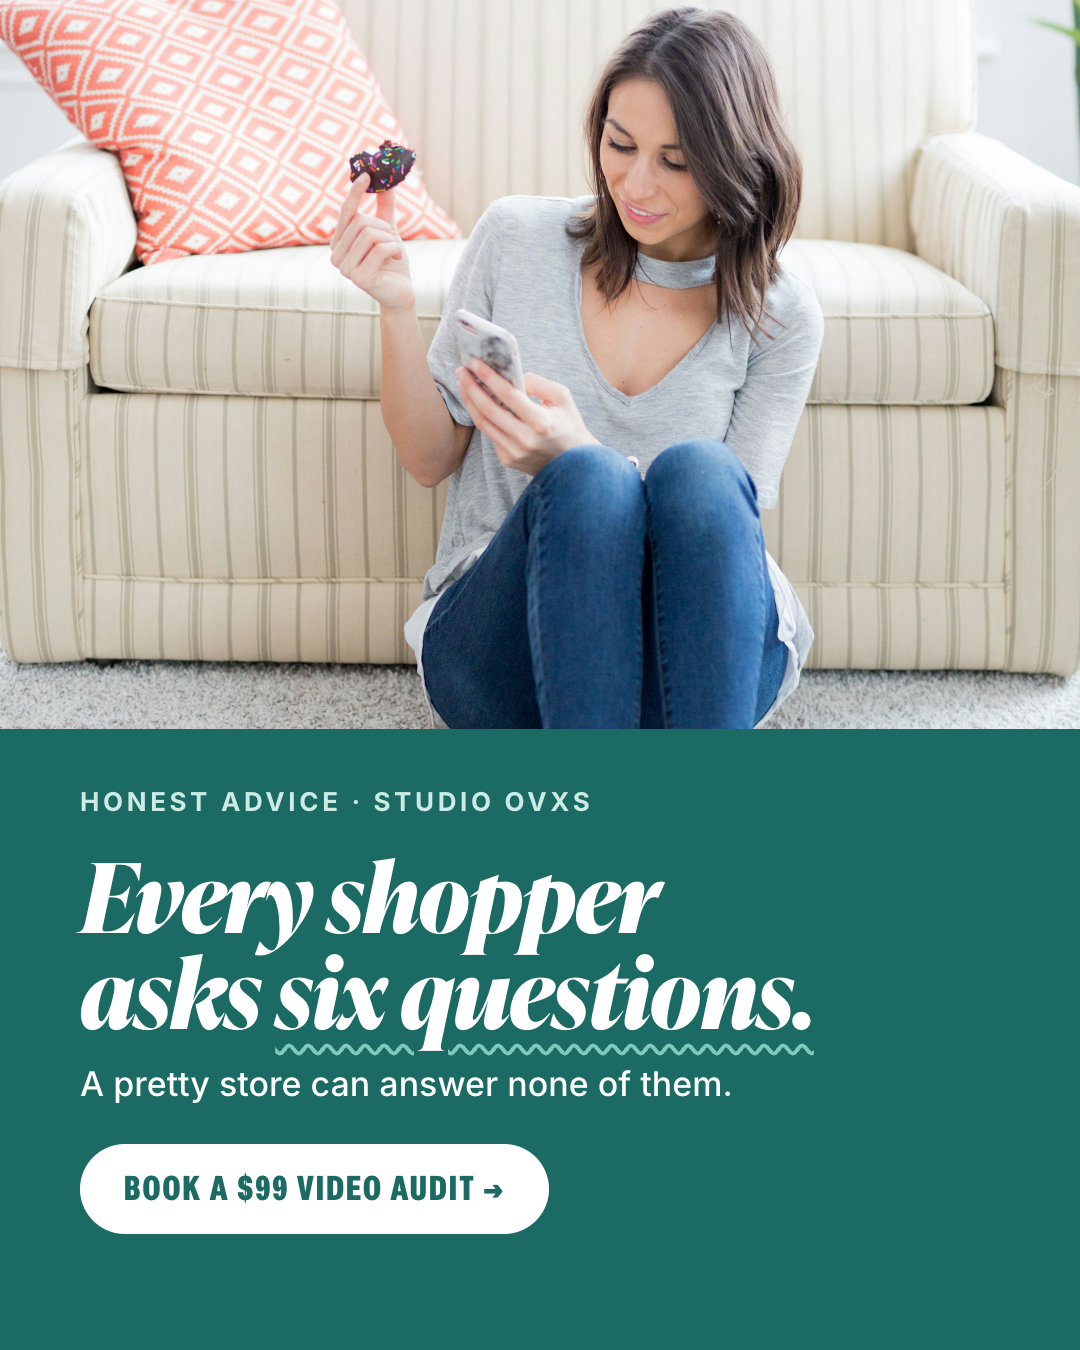
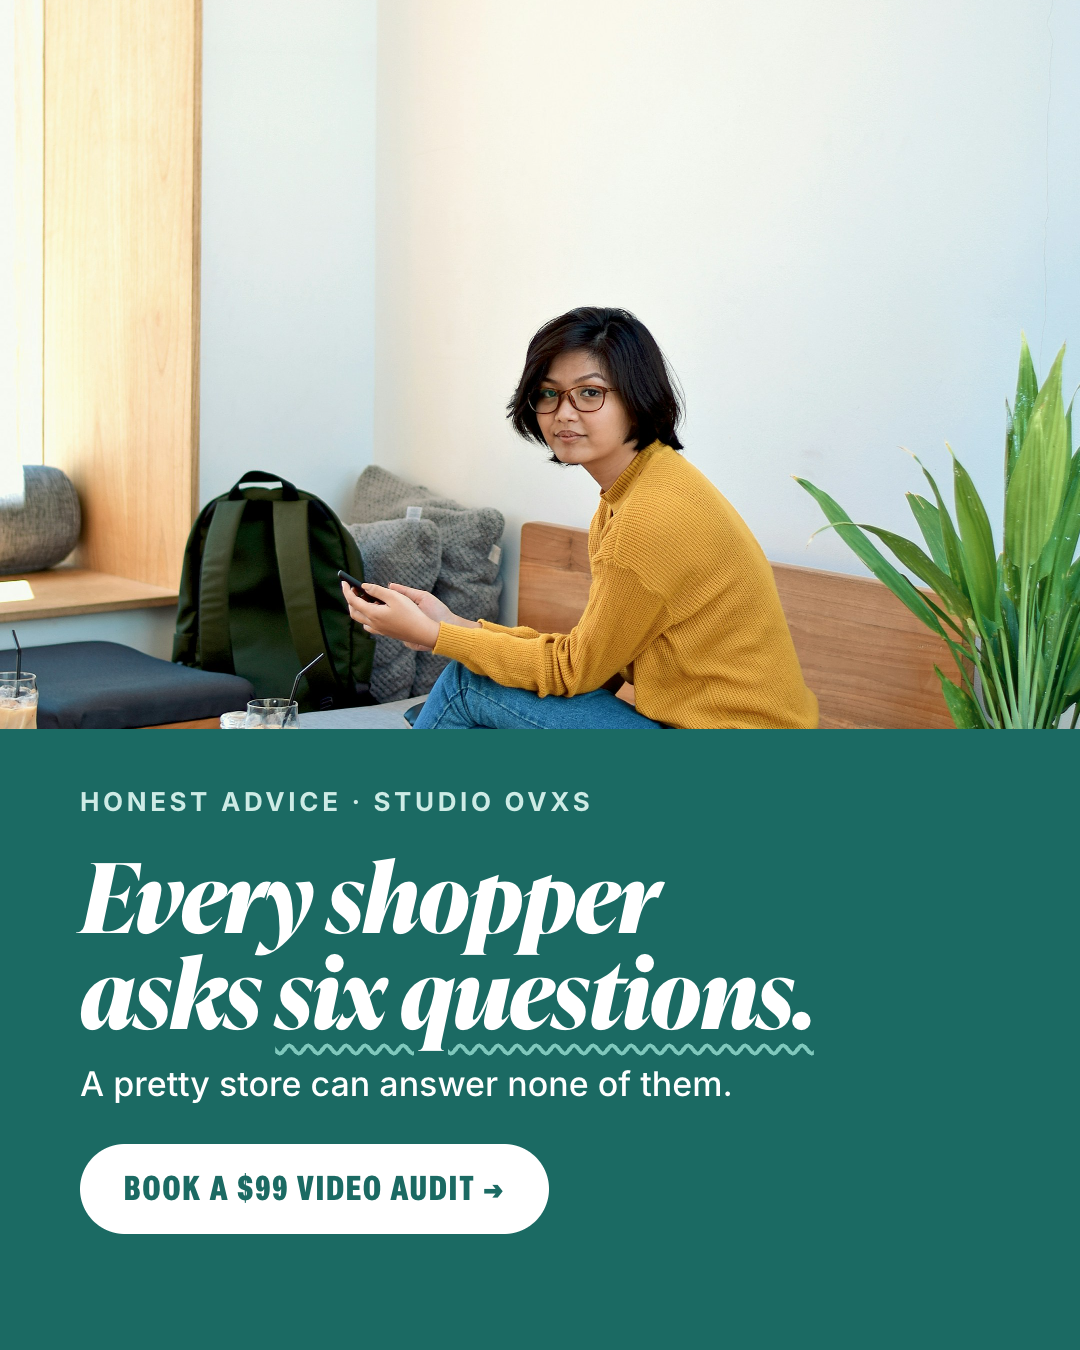
content: daily run 2026-11-17 — test request: Desk photo picks synced, post files prepped (draft-only)

diff --git a/topics/2026-11-17-look-great-still-lose-customers-test/page.html b/topics/2026-11-17-look-great-still-lose-customers-test/page.html
@@ -139,7 +139,7 @@ Link in comments.
       <div>
         <div class="h3">Graphic · 4:5</div>
         <div class="frame"><div class="board bg-primary ph-on" id="li-graphic">
-          <div class="ph" style="background-image:url(assets/li.jpg)"></div>
+          <div class="ph" style="background-image:url(assets/li-2.jpg)"></div>
           <div class="pn">
             <div class="ey">Honest advice · Studio OVXS</div>
             <h2 class="hd">Every shopper asks <em>six questions.</em></h2>
@@ -250,12 +250,12 @@ Our $99 video audit checks your store against all six and ranks three fixes. Lin
 </main>
 <script>
 const slides=[
-  {bg:"primary",ph:"cover",ey:"Honest advice",hd:"Your store can look great. <em>And still lose customers.</em>",sb:"Six questions every shopper asks before buying. Swipe."},
+  {bg:"primary",ph:"cover-2",ey:"Honest advice",hd:"Your store can look great. <em>And still lose customers.</em>",sb:"Six questions every shopper asks before buying. Swipe."},
   {bg:"container",ph:"where",n:"01",ey:"Navigation",hd:"“Where <em>is it?</em>”",sb:"Name menus the way shoppers search, not the way you stock."},
   {bg:"surface",n:"02",ey:"Product information",hd:"“What exactly <em>am I getting?</em>”",sb:"Size, materials, delivery and returns, right by the button.",src:"62% of mobile product pages rate mediocre or worse · Baymard"},
   {bg:"dark",ph:"phone",n:"03",ey:"Mobile",hd:"“Does this work <em>on my phone?</em>”",sb:"Big tap targets, a short menu, nothing covering the page."},
   {bg:"primary",n:"04",ey:"Trust",hd:"“Can I <em>trust you?</em>”",sb:"Real reviews, clear returns and a way to reach a person.",src:"19% left a checkout over card trust · Baymard"},
-  {bg:"container",ph:"easy",n:"05",ey:"Friction",hd:"“Is this <em>easy?</em>”",sb:"Costs shown early, guest checkout, as few steps as possible."},
+  {bg:"container",ph:"easy-2",n:"05",ey:"Friction",hd:"“Is this <em>easy?</em>”",sb:"Costs shown early, guest checkout, as few steps as possible."},
   {bg:"surface",n:"06",ey:"Next step",hd:"“What do I <em>do next?</em>”",sb:"One clear button per page. Everything else steps back."},
   {bg:"dark",ey:"The short version",hd:"Good design gets attention. <em>Good UX makes buying easier.</em>",sb:"Roughly 7 in 10 online carts are abandoned.",src:"Baymard Institute",cta:"Book a $99 video audit →"}
 ];

diff --git a/topics/2026-11-17-look-great-still-lose-customers-test/brief.md b/topics/2026-11-17-look-great-still-lose-customers-test/brief.md
@@ -81,15 +81,17 @@ Good UX makes buying easier.
 - Drafting note (daily run 2026-11-17): six questions need six slides, so the carousel drops the separate setup slide — the cover carries the setup line, slides 2–7 are the questions, slide 8 is Ramit’s closing lines + CTA.
 - Drafting note: the 67% mobile-navigation stat was cut (source didn’t support it). Stats used: 70.22% cart abandonment, 62%/52% product page UX, checkout reasons 40% / 19% / 18% — all Baymard, linked.
 - Drafting note: the article links the Halm case study (4.8 star average, 400+ reviews) under the trust question.
+- Photos (Desk, synced daily run 2026-11-17): LinkedIn graphic, slide 1 and slide 6 swapped/generated by Ramit on the Desk — now Yoshua Giri, Windows and Vladyslav Tobolenko (Unsplash). Previous picks stay as Swap backups.
+- Approved 2026-11-17 (scheduling off, Publish now). Post files prepped in export/ (draft-only). TEST — never posted; close with “Test done” on the Desk.
 
 ## Photos
 | File | Source | Photographer | Page |
 |---|---|---|---|
-| li.jpg (LinkedIn graphic) | Unsplash | Ana Tavares | https://unsplash.com/photos/woman-sitting-on-carpet-leaning-on-couch-bKrmXTShj7k |
-| cover.jpg (slide 1) | Unsplash | Indu Pandey | https://unsplash.com/photos/woman-in-pink-long-sleeve-shirt-sitting-on-brown-sofa-chair-3wacD2E3b-I |
+| li-2.jpg (LinkedIn graphic) | Unsplash | Yoshua Giri | https://unsplash.com/photos/woman-sitting-on-gray-bench-crossing-legs-ZRnoZG6WIUQ |
+| cover-2.jpg (slide 1) | Unsplash | Windows | https://unsplash.com/photos/woman-in-red-and-white-plaid-dress-shirt-using-microsoft-surface-laptop-N1YOSWrXQJE |
 | where.jpg (slide 2) | Unsplash | Michal Biernat | https://unsplash.com/photos/person-using-smartphone-in-workspace-h0xEUQXzU38 |
 | phone.jpg (slide 4) | Unsplash | Good Faces Agency | https://unsplash.com/photos/a-woman-sitting-on-a-bench-holding-a-cell-phone-Lr0UX1VBajs |
-| easy.jpg (slide 6) | Unsplash | Sincerely Media | https://unsplash.com/photos/woman-sitting-on-bed-and-using-laptop-x1i9rVh_klk |
+| easy-2.jpg (slide 6) | Unsplash | Vladyslav Tobolenko | https://unsplash.com/photos/a-person-sitting-at-a-table-using-a-laptop-computer-pcYi8xuRzmE |
 
 Backups for Swap photo (on the Desk only, not downloaded): 2 per photo graphic.
 
